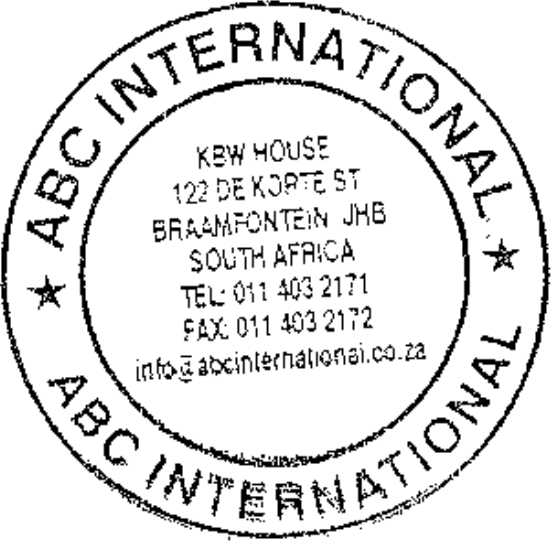
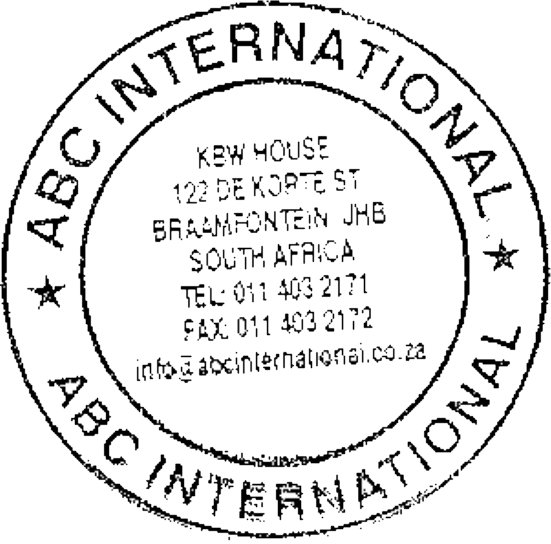
2

diff --git a/permit.php b/permit.php
@@ -177,7 +177,7 @@ body {margin-top: 0px;margin-left: 0px;}
 <P class="p15 ft13"><SPAN class="ft5">3.</SPAN><SPAN class="ft12">Within 30 days of </SPAN><NOBR>de-registration,</NOBR> notify the <NOBR>Director-General</NOBR> that the applicant is no longer registered with such institution; and</P>
 <P class="p16 ft13"><SPAN class="ft5">4.</SPAN><SPAN class="ft12">Within 30 days of completion of studies, notify the </SPAN><NOBR>Director-General</NOBR> when the applicant has completed his or her studies or requires to extend such period of study.</P>
 <P class="p17 ft4">Should you have any queries, please contact the administrator or principal.</P>
-    <div style="display: flex">
+    <div style="display: flex; position: relative; height: 200px;">
         <div>
             <P class="p18 ft5">Sincerely,</P>
             <P class="p17 ft14">Kim Wetzl</P>
@@ -185,7 +185,7 @@ body {margin-top: 0px;margin-left: 0px;}
             <P class="p20 ft15"><A href="mailto:kim@abcinternational.co.za">info@abcinternational.co.za</A></P>
         </div>
         <div>
-            <img style="height: 100px;margin-top: 8px;margin-left: 100px;" src="img/stamp.png" alt="">
+            <img style="height: 149px;position: absolute;left: 62px;top: 2px;" src="img/stamp.png" alt="">
         </div>
     </div>
 </DIV>

diff --git a/permit1.php b/permit1.php
@@ -183,9 +183,6 @@ $row = mysqli_fetch_array($r);
            <P class="p19 ft4">Principal</P>
            <P class="p20 ft15"><A href="mailto:kim@abcinternational.co.za">info@abcinternational.co.za</A></P>
        </div>
-        <div>
-            <img style="height: 100px;margin-top: 8px;margin-left: 100px;" src="img/stamp.png" alt="">
-        </div>
     </div>
 </DIV>
 </BODY>
